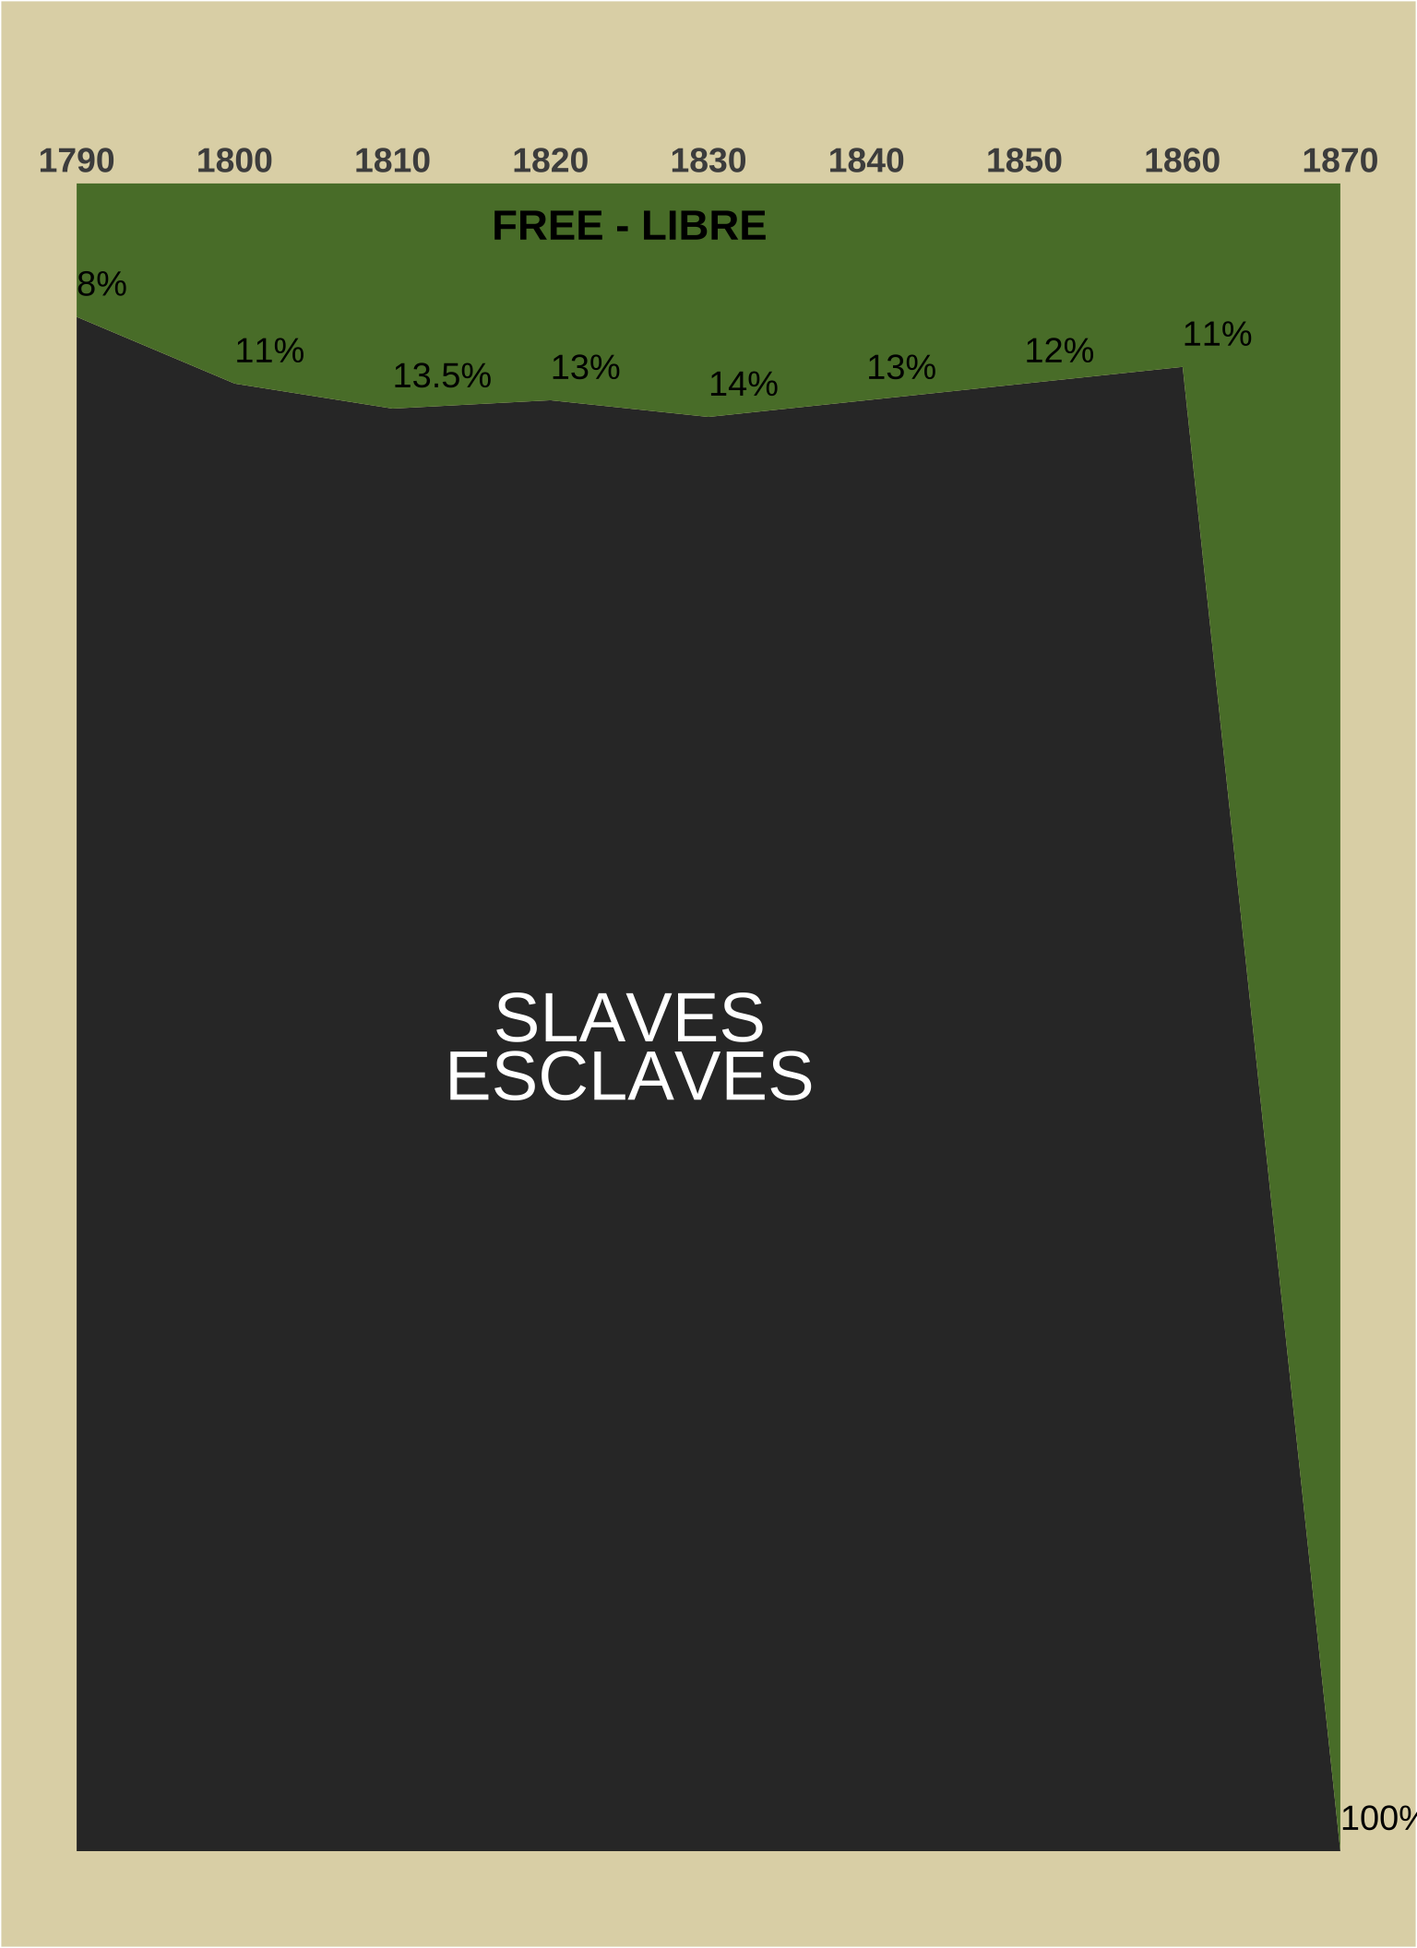
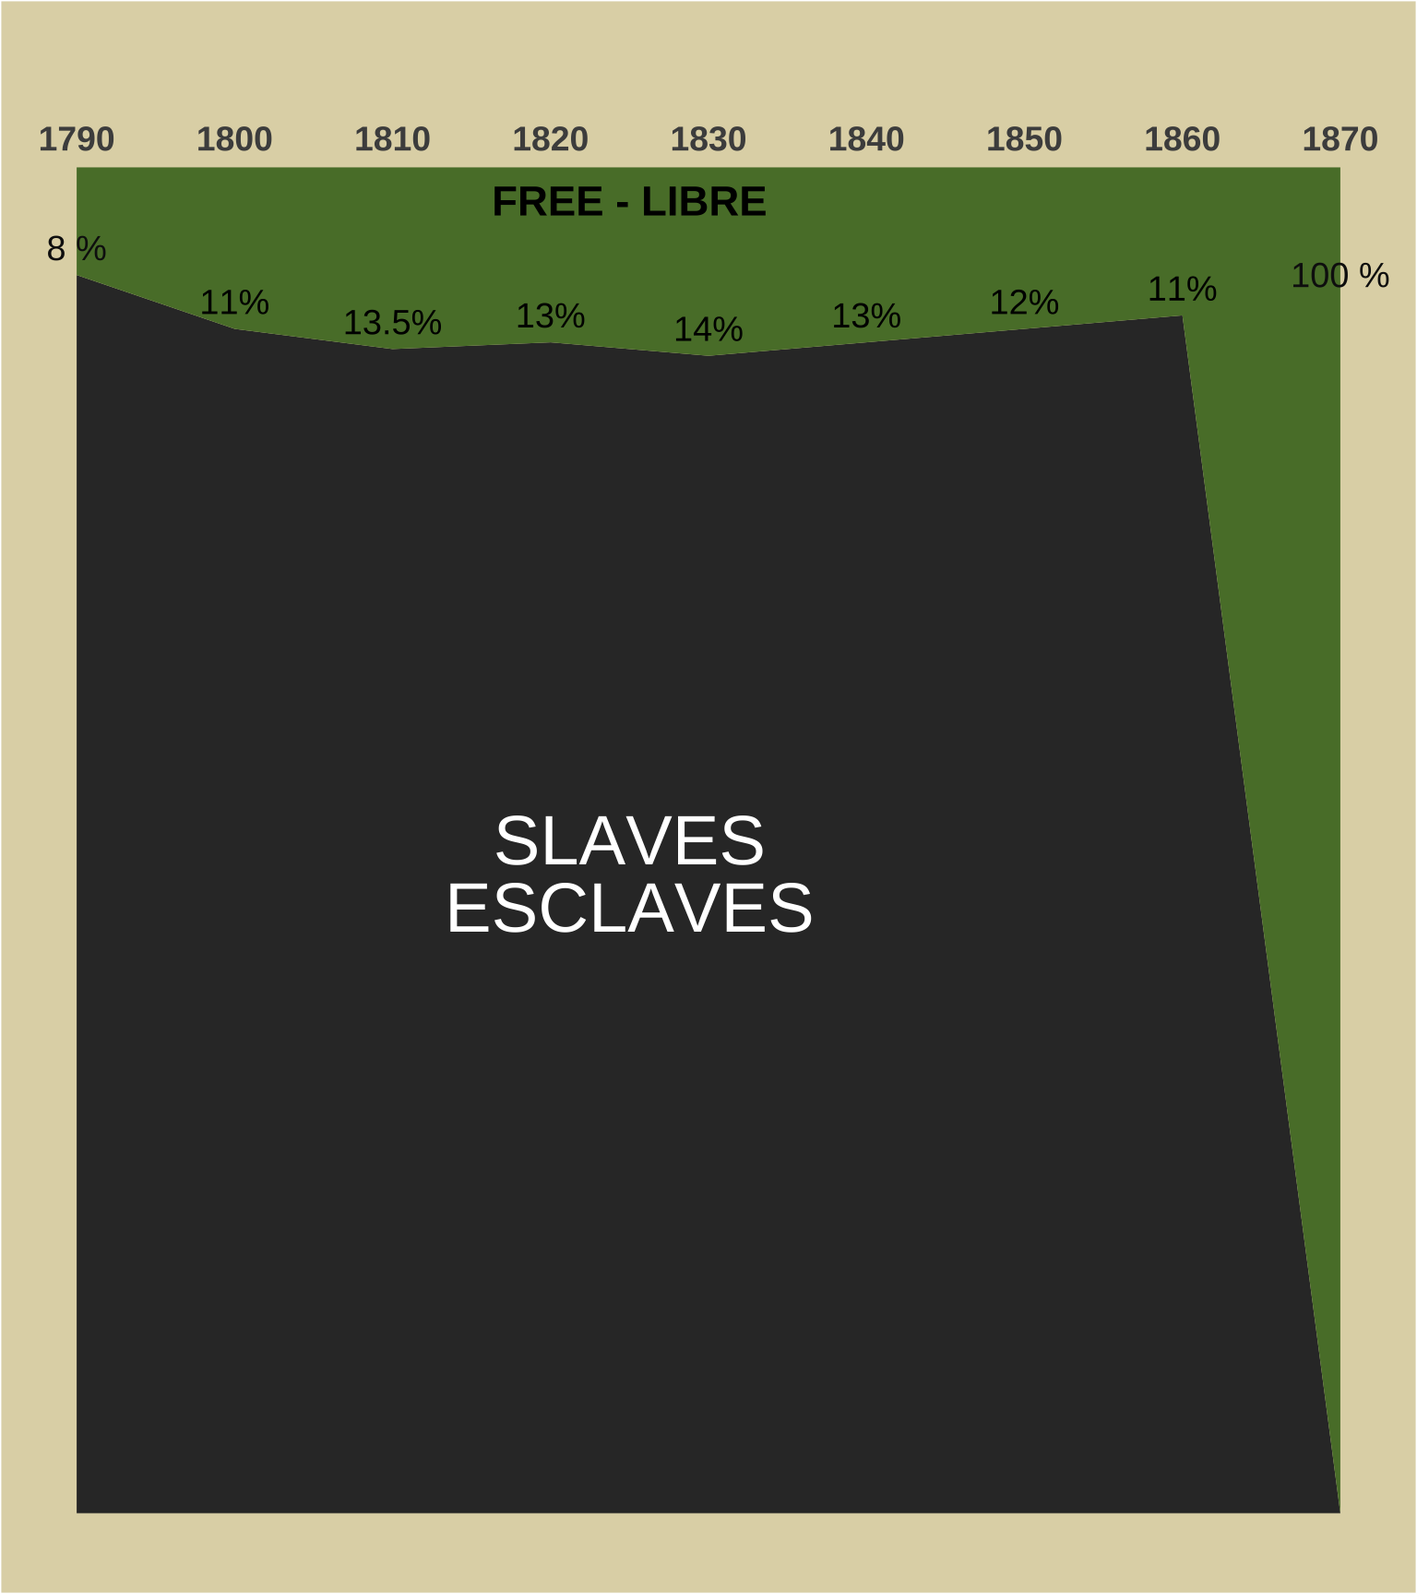
Just gave up on trying to figure out how to do it with just theme() and hardcoded in the troublesome annotations. Overall, looks good

diff --git a/_posts/2021-02-16-tidy-tuesday-web-du-bois/tidy-tuesday-web-du-bois.html b/_posts/2021-02-16-tidy-tuesday-web-du-bois/tidy-tuesday-web-du-bois.html
@@ -1494,23 +1494,7 @@ code span.wa { color: #5e5e5e; font-style: italic; } /* Warning */
 <span class='kw'><a href='https://rdrr.io/r/base/library.html'>library</a></span><span class='op'>(</span><span class='va'><a href='https://wilkelab.org/ggtext/'>ggtext</a></span><span class='op'>)</span>
 <span class='kw'><a href='https://rdrr.io/r/base/library.html'>library</a></span><span class='op'>(</span><span class='va'><a href='https://github.com/yixuan/showtext'>showtext</a></span><span class='op'>)</span>
 
-<span class='va'>tuesdata</span> <span class='op'>&lt;-</span> <span class='fu'>tidytuesdayR</span><span class='fu'>::</span><span class='fu'><a href='https://rdrr.io/pkg/tidytuesdayR/man/tt_load.html'>tt_load</a></span><span class='op'>(</span><span class='st'>'2021-02-16'</span><span class='op'>)</span>
-</code></pre>
-</div>
-</details>
-<pre><code>
-    Downloading file 1 of 8: `freed_slaves.csv`
-    Downloading file 2 of 8: `census.csv`
-    Downloading file 3 of 8: `furniture.csv`
-    Downloading file 4 of 8: `city_rural.csv`
-    Downloading file 5 of 8: `income.csv`
-    Downloading file 6 of 8: `occupation.csv`
-    Downloading file 7 of 8: `conjugal.csv`
-    Downloading file 8 of 8: `georgia_pop.csv`</code></pre>
-<details>
-<summary>Show code</summary>
-<div class="sourceCode">
-<pre class="sourceCode r"><code class="sourceCode r"><span class='va'>freed_slaves</span> <span class='op'>&lt;-</span> <span class='va'>tuesdata</span><span class='op'>$</span><span class='va'>freed_slaves</span>
+<span class='va'>freed_slaves</span> <span class='op'>&lt;-</span> <span class='fu'>readr</span><span class='fu'>::</span><span class='fu'><a href='https://readr.tidyverse.org/reference/read_delim.html'>read_csv</a></span><span class='op'>(</span><span class='st'>'https://raw.githubusercontent.com/rfordatascience/tidytuesday/master/data/2021/2021-02-16/freed_slaves.csv'</span><span class='op'>)</span>
 </code></pre>
 </div>
 </details>
@@ -1542,19 +1526,22 @@ code span.wa { color: #5e5e5e; font-style: italic; } /* Warning */
     <span class='fu'>scale_x_continuous</span><span class='op'>(</span>position <span class='op'>=</span> <span class='st'>"top"</span>, breaks  <span class='op'>=</span> <span class='fu'><a href='https://rdrr.io/r/base/seq.html'>seq</a></span><span class='op'>(</span><span class='fl'>1790</span>, <span class='fl'>1870</span>, <span class='fl'>10</span><span class='op'>)</span><span class='op'>)</span> <span class='op'>+</span>
     <span class='fu'>scale_y_continuous</span><span class='op'>(</span>labels <span class='op'>=</span> <span class='cn'>NULL</span>, breaks <span class='op'>=</span> <span class='cn'>NULL</span><span class='op'>)</span> <span class='op'>+</span>
   
-    <span class='fu'>geom_text</span><span class='op'>(</span>
+    <span class='fu'>geom_text</span><span class='op'>(</span>data <span class='op'>=</span> <span class='va'>freed_slaves</span> <span class='op'>%&gt;%</span> <span class='fu'><a href='https://rdrr.io/r/stats/filter.html'>filter</a></span><span class='op'>(</span><span class='va'>Year</span> <span class='op'>&gt;</span> <span class='fl'>1790</span>, <span class='va'>Year</span> <span class='op'>&lt;</span> <span class='fl'>1870</span><span class='op'>)</span>,
         <span class='fu'>aes</span><span class='op'>(</span>x <span class='op'>=</span> <span class='va'>Year</span>, y <span class='op'>=</span> <span class='va'>Slave</span> <span class='op'>+</span> <span class='fl'>2</span>, label <span class='op'>=</span> <span class='fu'>glue</span><span class='fu'>::</span><span class='fu'><a href='https://glue.tidyverse.org/reference/glue.html'>glue</a></span><span class='op'>(</span><span class='st'>"{Free}%"</span><span class='op'>)</span><span class='op'>)</span>, 
-        hjust <span class='op'>=</span> <span class='fl'>0</span>,
+        <span class='co'># hjust = 0,</span>
         size <span class='op'>=</span> <span class='fl'>5</span>,
         color <span class='op'>=</span> <span class='st'>'black'</span><span class='op'>)</span> <span class='op'>+</span> 
     <span class='fu'>annotate</span><span class='op'>(</span><span class='st'>'text'</span>, x <span class='op'>=</span> <span class='fl'>1825</span>, y <span class='op'>=</span> <span class='fl'>50</span>, 
              label <span class='op'>=</span> <span class='fu'>glue</span><span class='fu'>::</span><span class='fu'><a href='https://glue.tidyverse.org/reference/glue.html'>glue</a></span><span class='op'>(</span><span class='st'>"SLAVES"</span><span class='op'>)</span>, color <span class='op'>=</span> <span class='st'>'white'</span>, size <span class='op'>=</span> <span class='fl'>10</span><span class='op'>)</span> <span class='op'>+</span>
-    <span class='fu'>annotate</span><span class='op'>(</span><span class='st'>'text'</span>, x <span class='op'>=</span> <span class='fl'>1825</span>, y <span class='op'>=</span> <span class='fl'>46.5</span>, 
+    <span class='fu'>annotate</span><span class='op'>(</span><span class='st'>'text'</span>, x <span class='op'>=</span> <span class='fl'>1825</span>, y <span class='op'>=</span> <span class='fl'>45</span>, 
              label <span class='op'>=</span> <span class='fu'>glue</span><span class='fu'>::</span><span class='fu'><a href='https://glue.tidyverse.org/reference/glue.html'>glue</a></span><span class='op'>(</span><span class='st'>"ESCLAVES"</span><span class='op'>)</span>, color <span class='op'>=</span> <span class='st'>'white'</span>, size <span class='op'>=</span> <span class='fl'>10</span><span class='op'>)</span> <span class='op'>+</span>
     <span class='fu'>annotate</span><span class='op'>(</span><span class='st'>'text'</span>, x <span class='op'>=</span> <span class='fl'>1825</span>, y <span class='op'>=</span> <span class='fl'>97.5</span>, 
              label <span class='op'>=</span> <span class='fu'>glue</span><span class='fu'>::</span><span class='fu'><a href='https://glue.tidyverse.org/reference/glue.html'>glue</a></span><span class='op'>(</span><span class='st'>"FREE - LIBRE"</span><span class='op'>)</span>, color <span class='op'>=</span> <span class='st'>'black'</span>, size <span class='op'>=</span> <span class='fl'>6</span>, fontface <span class='op'>=</span> <span class='st'>'bold'</span><span class='op'>)</span> <span class='op'>+</span>
-    
-    <span class='co'># theme_minimal() +</span>
+    <span class='fu'>annotate</span><span class='op'>(</span><span class='st'>"text"</span>, label <span class='op'>=</span> <span class='st'>"100 %"</span>, x <span class='op'>=</span> <span class='fl'>1870</span>, y <span class='op'>=</span> <span class='fl'>92</span>,
+              color <span class='op'>=</span> <span class='st'>"#101010"</span>, size <span class='op'>=</span> <span class='fl'>5</span><span class='op'>)</span> <span class='op'>+</span>
+    <span class='fu'>annotate</span><span class='op'>(</span><span class='st'>"text"</span>, label <span class='op'>=</span> <span class='st'>"8 %"</span>, x <span class='op'>=</span> <span class='fl'>1790</span>, y <span class='op'>=</span> <span class='fl'>94</span>,
+             color <span class='op'>=</span> <span class='st'>"#101010"</span>, size <span class='op'>=</span> <span class='fl'>5</span><span class='op'>)</span> <span class='op'>+</span>
+  
     <span class='fu'>theme</span><span class='op'>(</span>
         axis.ticks <span class='op'>=</span> <span class='fu'>element_blank</span><span class='op'>(</span><span class='op'>)</span>,
         legend.title <span class='op'>=</span> <span class='fu'>element_blank</span><span class='op'>(</span><span class='op'>)</span>,
@@ -1562,7 +1549,7 @@ code span.wa { color: #5e5e5e; font-style: italic; } /* Warning */
           size<span class='op'>=</span><span class='fl'>14</span>, 
           face <span class='op'>=</span> <span class='st'>'bold'</span>, 
           margin <span class='op'>=</span> <span class='fu'>margin</span><span class='op'>(</span><span class='fl'>20</span>,<span class='fl'>0</span>,<span class='fl'>0</span>,<span class='fl'>0</span><span class='op'>)</span>, 
-          vjust <span class='op'>=</span> <span class='op'>-</span><span class='fl'>11</span><span class='op'>)</span>,
+          vjust <span class='op'>=</span> <span class='op'>-</span><span class='fl'>8</span><span class='op'>)</span>,
         panel.background <span class='op'>=</span> <span class='fu'>element_rect</span><span class='op'>(</span>fill <span class='op'>=</span> <span class='va'>oat_color</span>, colour <span class='op'>=</span> <span class='va'>oat_color</span><span class='op'>)</span>,
         panel.border <span class='op'>=</span> <span class='fu'>element_blank</span><span class='op'>(</span><span class='op'>)</span>,
         panel.grid.major.x <span class='op'>=</span> <span class='fu'>element_blank</span><span class='op'>(</span><span class='op'>)</span>,
@@ -1583,7 +1570,7 @@ code span.wa { color: #5e5e5e; font-style: italic; } /* Warning */
 <li>texture - would be nice to match the brush strokes that can be seen on the original</li>
 <li>foreign text - need to learn how to deal with foreign languages to add accents</li>
 </ul>
-<div class="sourceCode" id="cb2"><pre class="sourceCode r distill-force-highlighting-css"><code class="sourceCode r"></code></pre></div>
+<div class="sourceCode" id="cb1"><pre class="sourceCode r distill-force-highlighting-css"><code class="sourceCode r"></code></pre></div>
 <!--radix_placeholder_article_footer-->
 <!--/radix_placeholder_article_footer-->
 </div>

diff --git a/docs/posts/2021-02-16-tidy-tuesday-web-du-bois/index.html b/docs/posts/2021-02-16-tidy-tuesday-web-du-bois/index.html
@@ -2402,23 +2402,7 @@ d-appendix d-footnote-list a.footnote-backlink {
 <span class='kw'><a href='https://rdrr.io/r/base/library.html'>library</a></span><span class='op'>(</span><span class='va'><a href='https://wilkelab.org/ggtext/'>ggtext</a></span><span class='op'>)</span>
 <span class='kw'><a href='https://rdrr.io/r/base/library.html'>library</a></span><span class='op'>(</span><span class='va'><a href='https://github.com/yixuan/showtext'>showtext</a></span><span class='op'>)</span>
 
-<span class='va'>tuesdata</span> <span class='op'>&lt;-</span> <span class='fu'>tidytuesdayR</span><span class='fu'>::</span><span class='fu'><a href='https://rdrr.io/pkg/tidytuesdayR/man/tt_load.html'>tt_load</a></span><span class='op'>(</span><span class='st'>'2021-02-16'</span><span class='op'>)</span>
-</code></pre>
-</div>
-</details>
-<pre><code>
-    Downloading file 1 of 8: `freed_slaves.csv`
-    Downloading file 2 of 8: `census.csv`
-    Downloading file 3 of 8: `furniture.csv`
-    Downloading file 4 of 8: `city_rural.csv`
-    Downloading file 5 of 8: `income.csv`
-    Downloading file 6 of 8: `occupation.csv`
-    Downloading file 7 of 8: `conjugal.csv`
-    Downloading file 8 of 8: `georgia_pop.csv`</code></pre>
-<details>
-<summary>Show code</summary>
-<div class="sourceCode">
-<pre class="sourceCode r"><code class="sourceCode r"><span class='va'>freed_slaves</span> <span class='op'>&lt;-</span> <span class='va'>tuesdata</span><span class='op'>$</span><span class='va'>freed_slaves</span>
+<span class='va'>freed_slaves</span> <span class='op'>&lt;-</span> <span class='fu'>readr</span><span class='fu'>::</span><span class='fu'><a href='https://readr.tidyverse.org/reference/read_delim.html'>read_csv</a></span><span class='op'>(</span><span class='st'>'https://raw.githubusercontent.com/rfordatascience/tidytuesday/master/data/2021/2021-02-16/freed_slaves.csv'</span><span class='op'>)</span>
 </code></pre>
 </div>
 </details>
@@ -2450,19 +2434,22 @@ d-appendix d-footnote-list a.footnote-backlink {
     <span class='fu'>scale_x_continuous</span><span class='op'>(</span>position <span class='op'>=</span> <span class='st'>"top"</span>, breaks  <span class='op'>=</span> <span class='fu'><a href='https://rdrr.io/r/base/seq.html'>seq</a></span><span class='op'>(</span><span class='fl'>1790</span>, <span class='fl'>1870</span>, <span class='fl'>10</span><span class='op'>)</span><span class='op'>)</span> <span class='op'>+</span>
     <span class='fu'>scale_y_continuous</span><span class='op'>(</span>labels <span class='op'>=</span> <span class='cn'>NULL</span>, breaks <span class='op'>=</span> <span class='cn'>NULL</span><span class='op'>)</span> <span class='op'>+</span>
   
-    <span class='fu'>geom_text</span><span class='op'>(</span>
+    <span class='fu'>geom_text</span><span class='op'>(</span>data <span class='op'>=</span> <span class='va'>freed_slaves</span> <span class='op'>%&gt;%</span> <span class='fu'><a href='https://rdrr.io/r/stats/filter.html'>filter</a></span><span class='op'>(</span><span class='va'>Year</span> <span class='op'>&gt;</span> <span class='fl'>1790</span>, <span class='va'>Year</span> <span class='op'>&lt;</span> <span class='fl'>1870</span><span class='op'>)</span>,
         <span class='fu'>aes</span><span class='op'>(</span>x <span class='op'>=</span> <span class='va'>Year</span>, y <span class='op'>=</span> <span class='va'>Slave</span> <span class='op'>+</span> <span class='fl'>2</span>, label <span class='op'>=</span> <span class='fu'>glue</span><span class='fu'>::</span><span class='fu'><a href='https://glue.tidyverse.org/reference/glue.html'>glue</a></span><span class='op'>(</span><span class='st'>"{Free}%"</span><span class='op'>)</span><span class='op'>)</span>, 
-        hjust <span class='op'>=</span> <span class='fl'>0</span>,
+        <span class='co'># hjust = 0,</span>
         size <span class='op'>=</span> <span class='fl'>5</span>,
         color <span class='op'>=</span> <span class='st'>'black'</span><span class='op'>)</span> <span class='op'>+</span> 
     <span class='fu'>annotate</span><span class='op'>(</span><span class='st'>'text'</span>, x <span class='op'>=</span> <span class='fl'>1825</span>, y <span class='op'>=</span> <span class='fl'>50</span>, 
              label <span class='op'>=</span> <span class='fu'>glue</span><span class='fu'>::</span><span class='fu'><a href='https://glue.tidyverse.org/reference/glue.html'>glue</a></span><span class='op'>(</span><span class='st'>"SLAVES"</span><span class='op'>)</span>, color <span class='op'>=</span> <span class='st'>'white'</span>, size <span class='op'>=</span> <span class='fl'>10</span><span class='op'>)</span> <span class='op'>+</span>
-    <span class='fu'>annotate</span><span class='op'>(</span><span class='st'>'text'</span>, x <span class='op'>=</span> <span class='fl'>1825</span>, y <span class='op'>=</span> <span class='fl'>46.5</span>, 
+    <span class='fu'>annotate</span><span class='op'>(</span><span class='st'>'text'</span>, x <span class='op'>=</span> <span class='fl'>1825</span>, y <span class='op'>=</span> <span class='fl'>45</span>, 
              label <span class='op'>=</span> <span class='fu'>glue</span><span class='fu'>::</span><span class='fu'><a href='https://glue.tidyverse.org/reference/glue.html'>glue</a></span><span class='op'>(</span><span class='st'>"ESCLAVES"</span><span class='op'>)</span>, color <span class='op'>=</span> <span class='st'>'white'</span>, size <span class='op'>=</span> <span class='fl'>10</span><span class='op'>)</span> <span class='op'>+</span>
     <span class='fu'>annotate</span><span class='op'>(</span><span class='st'>'text'</span>, x <span class='op'>=</span> <span class='fl'>1825</span>, y <span class='op'>=</span> <span class='fl'>97.5</span>, 
              label <span class='op'>=</span> <span class='fu'>glue</span><span class='fu'>::</span><span class='fu'><a href='https://glue.tidyverse.org/reference/glue.html'>glue</a></span><span class='op'>(</span><span class='st'>"FREE - LIBRE"</span><span class='op'>)</span>, color <span class='op'>=</span> <span class='st'>'black'</span>, size <span class='op'>=</span> <span class='fl'>6</span>, fontface <span class='op'>=</span> <span class='st'>'bold'</span><span class='op'>)</span> <span class='op'>+</span>
-    
-    <span class='co'># theme_minimal() +</span>
+    <span class='fu'>annotate</span><span class='op'>(</span><span class='st'>"text"</span>, label <span class='op'>=</span> <span class='st'>"100 %"</span>, x <span class='op'>=</span> <span class='fl'>1870</span>, y <span class='op'>=</span> <span class='fl'>92</span>,
+              color <span class='op'>=</span> <span class='st'>"#101010"</span>, size <span class='op'>=</span> <span class='fl'>5</span><span class='op'>)</span> <span class='op'>+</span>
+    <span class='fu'>annotate</span><span class='op'>(</span><span class='st'>"text"</span>, label <span class='op'>=</span> <span class='st'>"8 %"</span>, x <span class='op'>=</span> <span class='fl'>1790</span>, y <span class='op'>=</span> <span class='fl'>94</span>,
+             color <span class='op'>=</span> <span class='st'>"#101010"</span>, size <span class='op'>=</span> <span class='fl'>5</span><span class='op'>)</span> <span class='op'>+</span>
+  
     <span class='fu'>theme</span><span class='op'>(</span>
         axis.ticks <span class='op'>=</span> <span class='fu'>element_blank</span><span class='op'>(</span><span class='op'>)</span>,
         legend.title <span class='op'>=</span> <span class='fu'>element_blank</span><span class='op'>(</span><span class='op'>)</span>,
@@ -2470,7 +2457,7 @@ d-appendix d-footnote-list a.footnote-backlink {
           size<span class='op'>=</span><span class='fl'>14</span>, 
           face <span class='op'>=</span> <span class='st'>'bold'</span>, 
           margin <span class='op'>=</span> <span class='fu'>margin</span><span class='op'>(</span><span class='fl'>20</span>,<span class='fl'>0</span>,<span class='fl'>0</span>,<span class='fl'>0</span><span class='op'>)</span>, 
-          vjust <span class='op'>=</span> <span class='op'>-</span><span class='fl'>11</span><span class='op'>)</span>,
+          vjust <span class='op'>=</span> <span class='op'>-</span><span class='fl'>8</span><span class='op'>)</span>,
         panel.background <span class='op'>=</span> <span class='fu'>element_rect</span><span class='op'>(</span>fill <span class='op'>=</span> <span class='va'>oat_color</span>, colour <span class='op'>=</span> <span class='va'>oat_color</span><span class='op'>)</span>,
         panel.border <span class='op'>=</span> <span class='fu'>element_blank</span><span class='op'>(</span><span class='op'>)</span>,
         panel.grid.major.x <span class='op'>=</span> <span class='fu'>element_blank</span><span class='op'>(</span><span class='op'>)</span>,
@@ -2491,7 +2478,7 @@ d-appendix d-footnote-list a.footnote-backlink {
 <li>texture - would be nice to match the brush strokes that can be seen on the original</li>
 <li>foreign text - need to learn how to deal with foreign languages to add accents</li>
 </ul>
-<div class="sourceCode" id="cb2"><pre class="sourceCode r distill-force-highlighting-css"><code class="sourceCode r"></code></pre></div>
+<div class="sourceCode" id="cb1"><pre class="sourceCode r distill-force-highlighting-css"><code class="sourceCode r"></code></pre></div>
 <!--radix_placeholder_article_footer-->
 <!--/radix_placeholder_article_footer-->
 </div>
